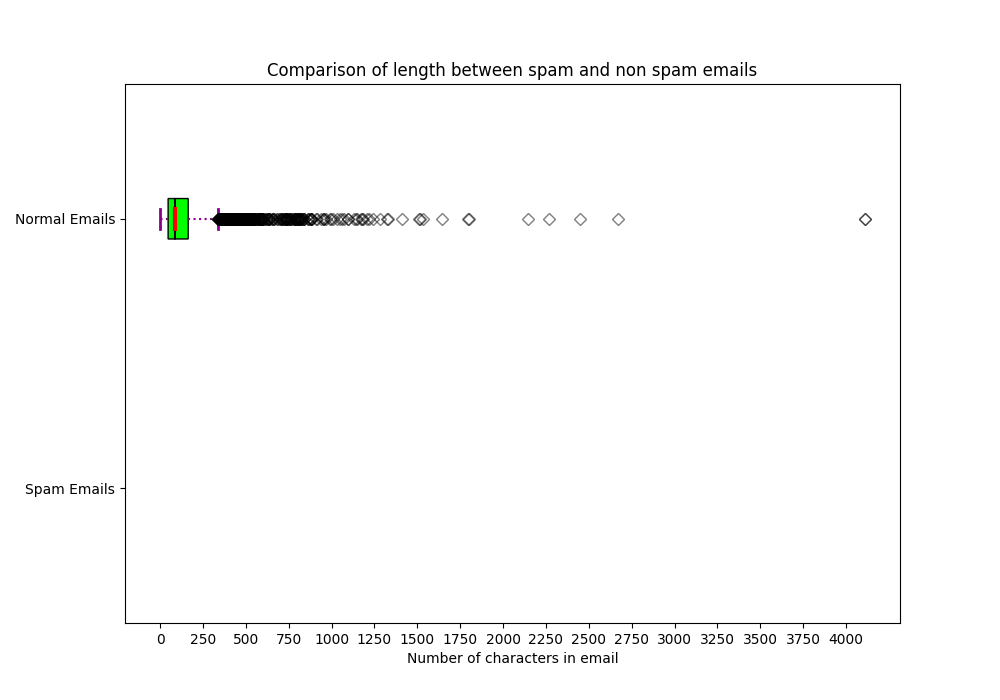
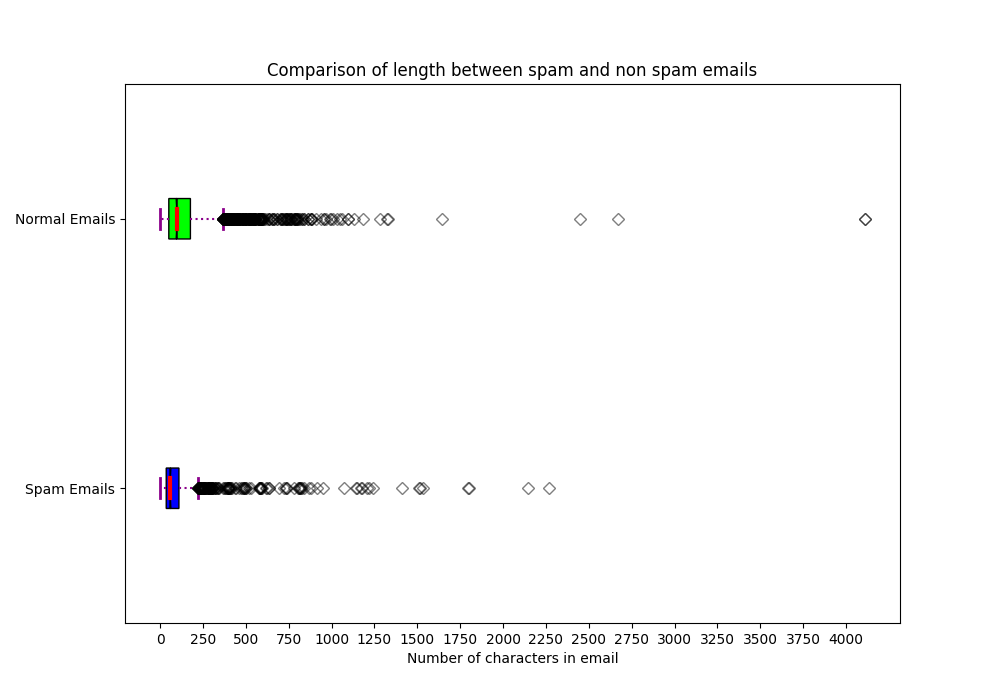
fix issue plot and updated requirements

diff --git a/insights_data.py b/insights_data.py
@@ -43,7 +43,7 @@ for index, row in data_frame_for_spam.iterrows():
 
     # print(text)
     # print("-------------------------------------------------------------------------------")
-    list_of_lengths_of_no_spam_mail.append(len(aux_text_no_trash))
+    list_of_lengths_of_spam_mail.append(len(aux_text_no_trash))
 
 for index, row in data_frame_for_no_spam.iterrows():
     # print(row)
@@ -73,6 +73,7 @@ list_of_lengths_all = list_of_lengths_of_spam_mail + list_of_lengths_of_no_spam_
 
 data_1 = list_of_lengths_of_spam_mail
 data_2 = list_of_lengths_of_no_spam_mail
+#print(data_1)
 
 data = [data_1, data_2]
 

diff --git a/README.md b/README.md
@@ -108,7 +108,7 @@ cd NLP_project1_4/
 _A requirements file was generated that will allow the automatic installation of the modules with_
 
 ```
-pip install -r requirements.txt
+sudo pip install -r requirements.txt
 ```
 
 ## Run and coding ⌨
